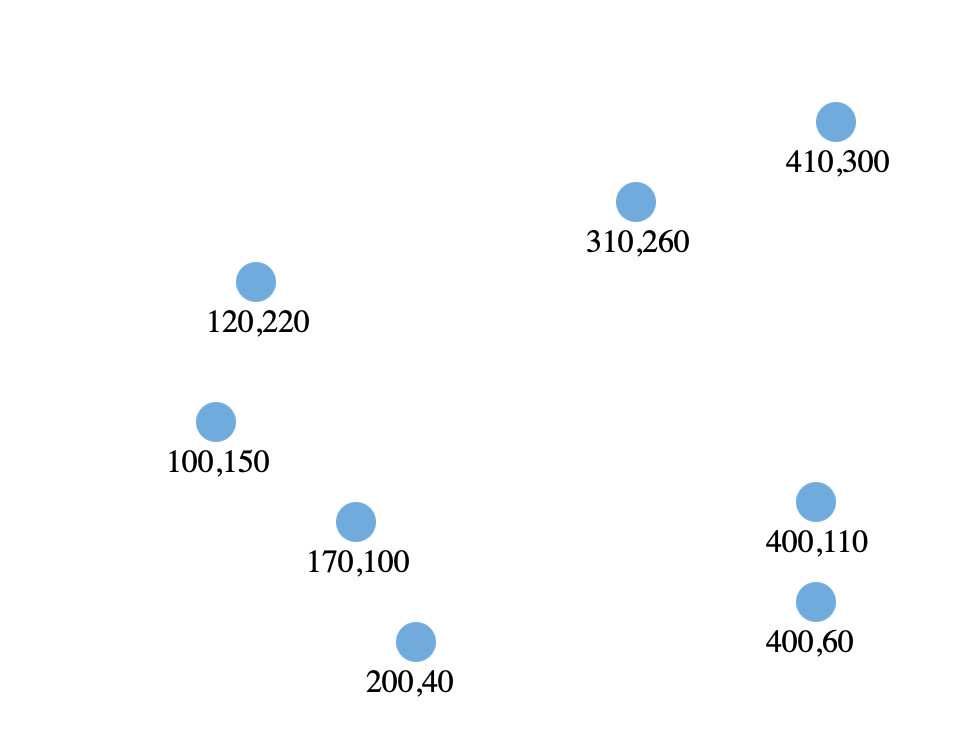
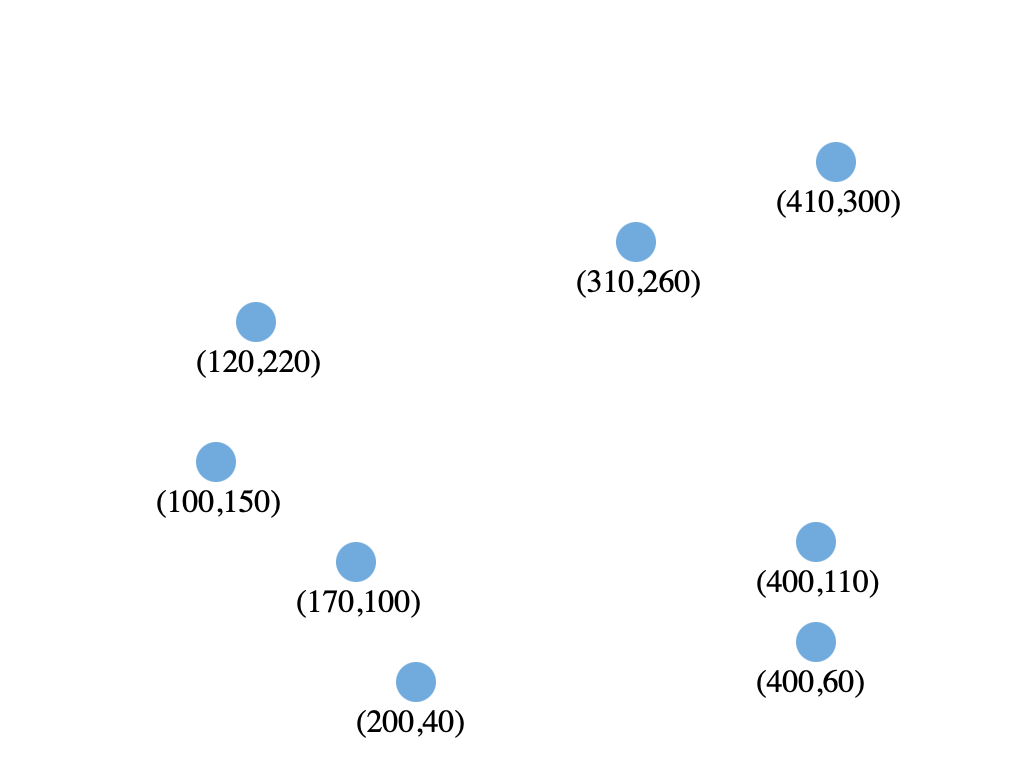
Updated scatterplot code to align co-ordinates labels

diff --git a/D3 Foundations/foundations-1_05_hw_template_SVG_scatter.html b/D3 Foundations/foundations-1_05_hw_template_SVG_scatter.html
@@ -67,8 +67,8 @@
                .data(dataset)
                .enter()
                .append("text")
-               .text(d=> d) //we want the text to return the data values
-               .attr("x", d=> d[0] - 25) //we want to give the text an x value, use what you used above, mind the difference between circle text properties 
+               .text(d=> "(" + d + ")") //we want the text to return the data values
+               .attr("x", d=> d[0] - 30) //we want to give the text an x value, use what you used above, mind the difference between circle text properties 
                .attr("y", d=> svgHeight - d[1] + 25); //we want to give the text a y value, use what you used above, mind the difference between circle text properties 
 
 
